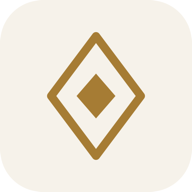
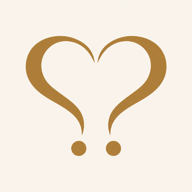
iOS safe-area düzeltmeleri (çentik + home çubuğu)

Changed region(s): [[0.125, 0.1562, 0.875, 0.8438]]

diff --git a/duello.html b/duello.html
@@ -6,8 +6,8 @@
 <meta name="theme-color" content="#f6f2ea" />
 <meta name="apple-mobile-web-app-capable" content="yes" />
 <meta name="apple-mobile-web-app-status-bar-style" content="default" />
-<meta name="apple-mobile-web-app-title" content="Düello" />
-<title>Çiftler Düellosu</title>
+<meta name="apple-mobile-web-app-title" content="Duello" />
+<title>Duello</title>
 <link rel="manifest" href="/manifest.webmanifest" />
 <link rel="apple-touch-icon" href="/ikon-180.png" />
 <link rel="preconnect" href="https://fonts.googleapis.com" />
@@ -269,9 +269,10 @@ async function odayaKatil(govde) {
 
 async function davetPaylas() {
   const link = `${location.origin}${location.pathname}?davet=${durum.davet}`;
-  const metin = `${durum.ben.ad} seni Çiftler Düellosu'na davet ediyor`;
+  // Sadece url paylaşılır: text+url birlikte verilince iOS'un "Kopyala"sı
+  // ikisini yapıştırıp linki çiftliyordu.
   if (navigator.share) {
-    try { await navigator.share({ title: "Çiftler Düellosu", text: metin, url: link }); return; }
+    try { await navigator.share({ url: link }); return; }
     catch (e) { if (e.name === "AbortError") return; }
   }
   try {
@@ -399,12 +400,12 @@ async function davetKontrol() {
 
 function girisEkrani(hataHtml) {
   $.innerHTML = `
-    <h1>Çiftler Düellosu</h1>
+    <h1>Duello</h1>
     <p class="alt">Birbirinizi ne kadar tanıyorsunuz? Her bölüm biraz daha derinleşiyor.</p>
     ${hataHtml}
     <div class="kart">
       <label>Adın</label>
-      <input type="text" id="ad" placeholder="Örn. Nurettin" autocomplete="given-name" />
+      <input type="text" id="ad" placeholder="Örn. Selen" autocomplete="given-name" />
       <button id="kurBtn">Yeni oyun kur</button>
     </div>
     <div class="ayrac">ya da eşin kod verdiyse</div>

diff --git a/www/index.html b/www/index.html
@@ -2,7 +2,7 @@
 <html lang="tr">
 <head>
 <meta charset="utf-8">
-<meta name="viewport" content="width=device-width, initial-scale=1, maximum-scale=1, user-scalable=no">
+<meta name="viewport" content="width=device-width, initial-scale=1, maximum-scale=1, user-scalable=no, viewport-fit=cover">
 <title>Kahve Falı · Hikmet Abla</title>
 <link rel="stylesheet" href="fonts.css">
 <style>
@@ -22,9 +22,9 @@
     color:var(--cream); font-family:var(--ui); -webkit-font-smoothing:antialiased;
     min-height:100%; display:flex; justify-content:center; user-select:none;
   }
-  .app{ width:100%; max-width:440px; min-height:100vh; padding:0 22px 40px; display:flex; flex-direction:column; }
+  .app{ width:100%; max-width:440px; min-height:100vh; padding:0 22px calc(40px + env(safe-area-inset-bottom, 0px)); display:flex; flex-direction:column; }
 
-  .top{ display:flex; align-items:center; justify-content:space-between; padding:18px 2px 6px; }
+  .top{ display:flex; align-items:center; justify-content:space-between; padding:calc(14px + env(safe-area-inset-top, 0px)) 2px 6px; }
   .jeton{ display:flex; align-items:center; gap:7px; background:rgba(220,189,124,.1); border:1px solid rgba(220,189,124,.3);
     padding:6px 13px; border-radius:22px; font-size:13px; color:var(--gold2); font-weight:600; cursor:pointer; letter-spacing:.2px; }
   .coin{ width:15px; height:15px; border-radius:50%; background:radial-gradient(circle at 35% 30%, #f4e0ab, var(--deep));
@@ -101,7 +101,7 @@
   .overlay.on{ display:flex; }
   @keyframes up{ from{ transform:translateY(100%) } to{ transform:none } }
   .sheet{ width:100%; max-width:440px; background:linear-gradient(180deg,#241a10,#1a1109); border:1px solid var(--line); border-bottom:none;
-    border-radius:26px 26px 0 0; padding:14px 22px 32px; animation:up .32s cubic-bezier(.2,.8,.2,1) both; }
+    border-radius:26px 26px 0 0; padding:14px 22px calc(32px + env(safe-area-inset-bottom, 0px)); animation:up .32s cubic-bezier(.2,.8,.2,1) both; }
   .grip{ width:40px; height:4px; border-radius:3px; background:var(--line); margin:0 auto 16px; }
   .sheet h2{ font-family:var(--disp); font-size:24px; margin:0 0 5px; color:var(--gold2); font-weight:500; text-align:center; }
   .sheet .lead{ color:var(--muted); font-size:13px; text-align:center; margin:0 0 20px; line-height:1.55; }